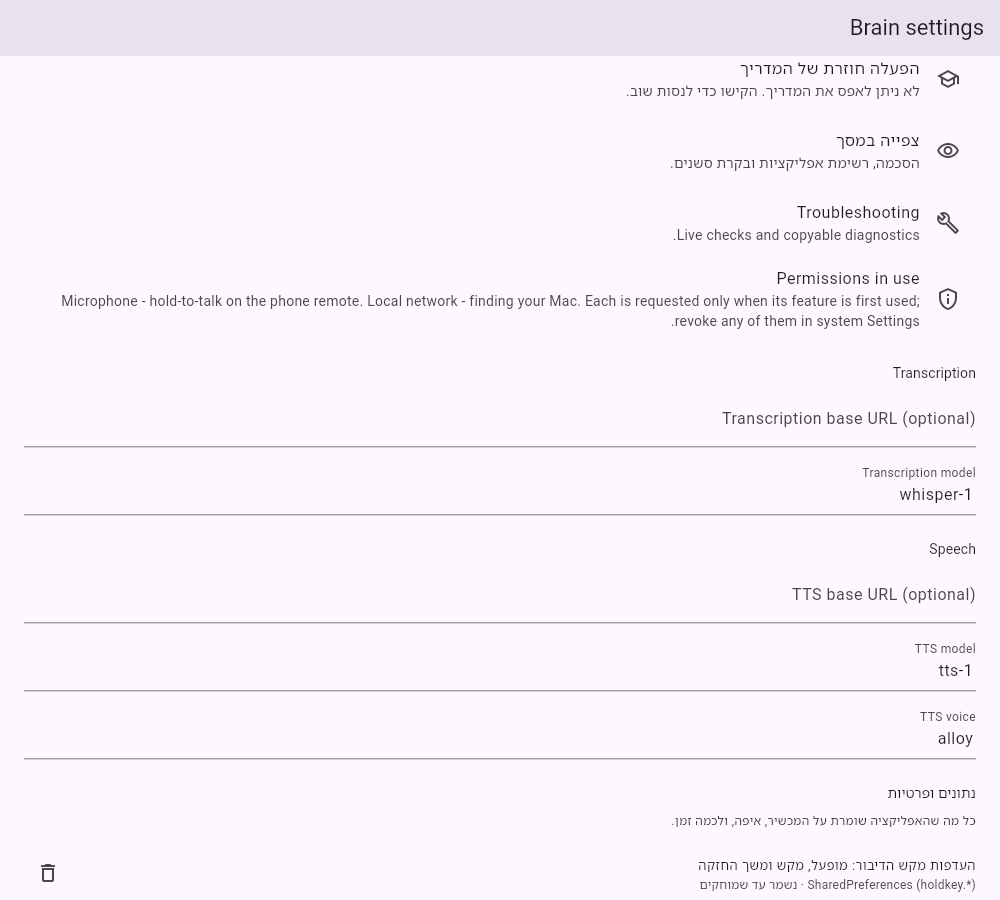
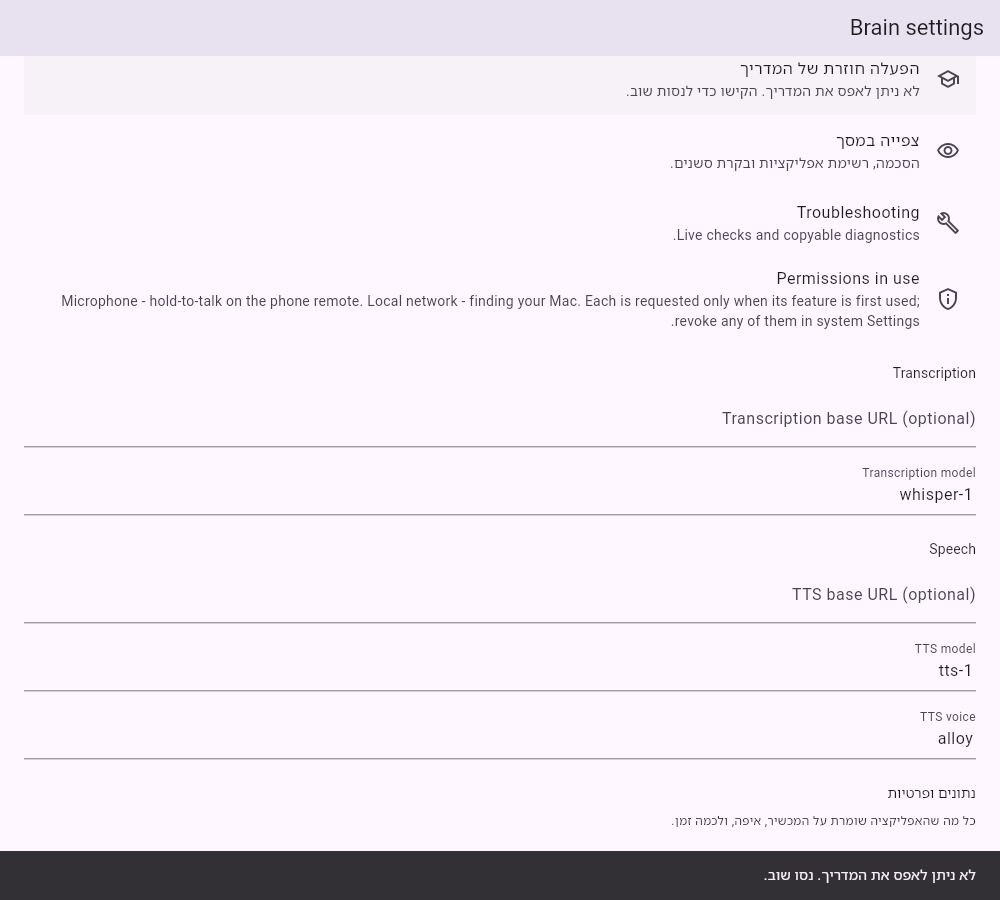
Settings replay evidence: observed readiness, sync-throw fixture, full EN/HE state set, README (Refs #464)

Changed region(s): [[0.0, 0.9333, 1.0, 1.0]]

diff --git a/test/settings_tutorial_replay_test.dart b/test/settings_tutorial_replay_test.dart
@@ -17,6 +17,18 @@ class _Reentrant extends TutorialController {
   }
 }
 
+class _SyncThrow extends TutorialController {
+  _SyncThrow({required super.store});
+  bool fail = true;
+  int calls = 0;
+  @override
+  Future<void> reset() {
+    calls++;
+    if (fail) throw StateError('/private/path sync');
+    return super.reset();
+  }
+}
+
 class _Store implements TutorialDoneStore {
   int removes = 0;
   Completer<void>? entered;
@@ -41,10 +53,12 @@ Future<void> _open(
   String label = 'Replay first-steps tutorial',
 ]) async {
   await tester.pumpWidget(MaterialApp(home: SettingsScreen(tutorial: c)));
-  await tester.runAsync(() async {
-    await Future<void>.delayed(const Duration(milliseconds: 300));
-  });
-  await tester.pump();
+  for (var i = 0; i < 500 && find.byType(Scrollable).evaluate().isEmpty; i++) {
+    await tester.runAsync(
+      () => Future<void>.delayed(const Duration(milliseconds: 5)),
+    );
+    await tester.pump();
+  }
   await tester.scrollUntilVisible(
     find.text(label),
     200,
@@ -161,15 +175,23 @@ void main() {
     await tester.pump();
     await tester.pump();
     expect(find.byType(SnackBar), findsNothing);
-    await tester.runAsync(() async {
-      await Future<void>.delayed(const Duration(milliseconds: 300));
-    });
-    await tester.pump();
+    for (
+      var i = 0;
+      i < 500 && find.byType(Scrollable).evaluate().isEmpty;
+      i++
+    ) {
+      await tester.runAsync(
+        () => Future<void>.delayed(const Duration(milliseconds: 5)),
+      );
+      await tester.pump();
+    }
     await tester.scrollUntilVisible(
       find.text('Replay first-steps tutorial'),
       200,
       scrollable: find.byType(Scrollable).first,
     );
+    await tester.ensureVisible(find.text('Replay first-steps tutorial'));
+    await tester.pump();
     await tester.tap(find.text('Replay first-steps tutorial'));
     await tester.pump();
     await tester.pump();
@@ -198,5 +220,32 @@ void main() {
       find.text('לא ניתן לאפס את המדריך. הקישו כדי לנסות שוב.'),
       findsOneWidget,
     );
+  });
+
+  testWidgets('synchronously throwing reset is safe; explicit retry works', (
+    tester,
+  ) async {
+    final store = _Store();
+    final c = _SyncThrow(store: store);
+    addTearDown(c.dispose);
+    await _open(tester, c);
+    await tester.tap(find.text('Replay first-steps tutorial'));
+    await tester.pump();
+    await tester.pump();
+    expect(c.calls, 1);
+    expect(store.removes, 0);
+    expect(
+      find.text('Could not reset the tutorial. Try again.'),
+      findsOneWidget,
+    );
+    expect(find.textContaining('private'), findsNothing);
+    expect(find.text('Tutorial will show on the main screen.'), findsNothing);
+    c.fail = false;
+    await tester.tap(find.text('Could not reset the tutorial. Tap to retry.'));
+    await tester.pump();
+    await tester.pump();
+    expect(c.calls, 2);
+    expect(store.removes, 1);
+    expect(find.text('Tutorial will show on the main screen.'), findsOneWidget);
   });
 }

diff --git a/test/settings_tutorial_replay_pixels_test.dart b/test/settings_tutorial_replay_pixels_test.dart
@@ -23,6 +23,16 @@ class _Store implements TutorialDoneStore {
   }
 }
 
+Future<void> _untilFound(WidgetTester t, Finder finder) async {
+  for (var i = 0; i < 500 && finder.evaluate().isEmpty; i++) {
+    await t.runAsync(
+      () => Future<void>.delayed(const Duration(milliseconds: 5)),
+    );
+    await t.pump();
+  }
+  expect(finder, findsWidgets);
+}
+
 /// Opt-in capture: set TUTORIAL_PIXELS=1 and run this test file.
 void main() {
   setUp(() => SharedPreferences.setMockInitialValues({}));
@@ -89,10 +99,7 @@ void main() {
               home: SettingsScreen(tutorial: c),
             ),
           );
-          await t.runAsync(
-            () => Future<void>.delayed(const Duration(milliseconds: 300)),
-          );
-          await t.pump();
+          await _untilFound(t, find.byType(Scrollable));
           final title = he
               ? 'הפעלה חוזרת של המדריך'
               : 'Replay first-steps tutorial';
@@ -135,11 +142,19 @@ void main() {
           await shot('pending');
           store.hold!.complete();
           await t.pump();
-          await t.pump();
+          await t.pump(const Duration(milliseconds: 500));
           await shot('error');
-          t
-              .state<ScaffoldMessengerState>(find.byType(ScaffoldMessenger))
-              .clearSnackBars();
+          // Explicit retry: pending again, then settled success.
+          store
+            ..fail = false
+            ..hold = Completer<void>();
+          await t.tap(find.text(title));
+          await t.pump();
+          await shot('retry-pending');
+          store.hold!.complete();
+          await t.pump();
+          await t.pump(const Duration(milliseconds: 500));
+          await shot('success');
         });
       }
     }

diff --git a/docs/evidence/issue-464/README.md b/docs/evidence/issue-464/README.md
@@ -1,0 +1,23 @@
+# Issue 464 evidence: Settings tutorial replay tile
+
+Synthetic widget evidence only. No device, native or storage-durability claim.
+
+## Harness
+
+- Test: `test/settings_tutorial_replay_pixels_test.dart`, actual `SettingsScreen` with an actual `TutorialController` over a held/failing in-memory `TutorialDoneStore`.
+- Regenerate: `TUTORIAL_PIXELS=1 FLUTTER_ROOT=<flutter sdk> flutter test test/settings_tutorial_replay_pixels_test.dart`. Without the variable the same test runs the structural assertions (tile at least 48 px tall) and writes nothing.
+- Readiness is observed (the test pumps until the Settings list exists), not slept.
+- Fonts: Roboto from `assets/fonts`, Noto Sans Hebrew from `/usr/share/fonts/truetype/noto/NotoSansHebrew-Regular.ttf`, Material icons from the SDK.
+- Dimensions: widths 320 and 1000 logical px (height 900, device pixel ratio 1), text scale 1.0 and 2.0, English and Hebrew (RTL).
+- File name: `<width>-<scale>-<en|he>-<state>.png`.
+
+## States (32 images)
+
+- `pending`: reset held, subtitle "Resetting..."
+- `error`: reset failed, generic notice snackbar plus the tile subtitle that offers retry
+- `retry-pending`: explicit retry started, held again
+- `success`: retry settled, success notice
+
+## Scope limits
+
+Captured from the PR head named in the PR thread. The screenshots show the Settings list scrolled to the replay tile; other rows use the default Material look. Behavior (joined taps, reentrant tap, replaced owner, disposal, sync and async failure, retry) is proven by `test/settings_tutorial_replay_test.dart`, not by the images.
